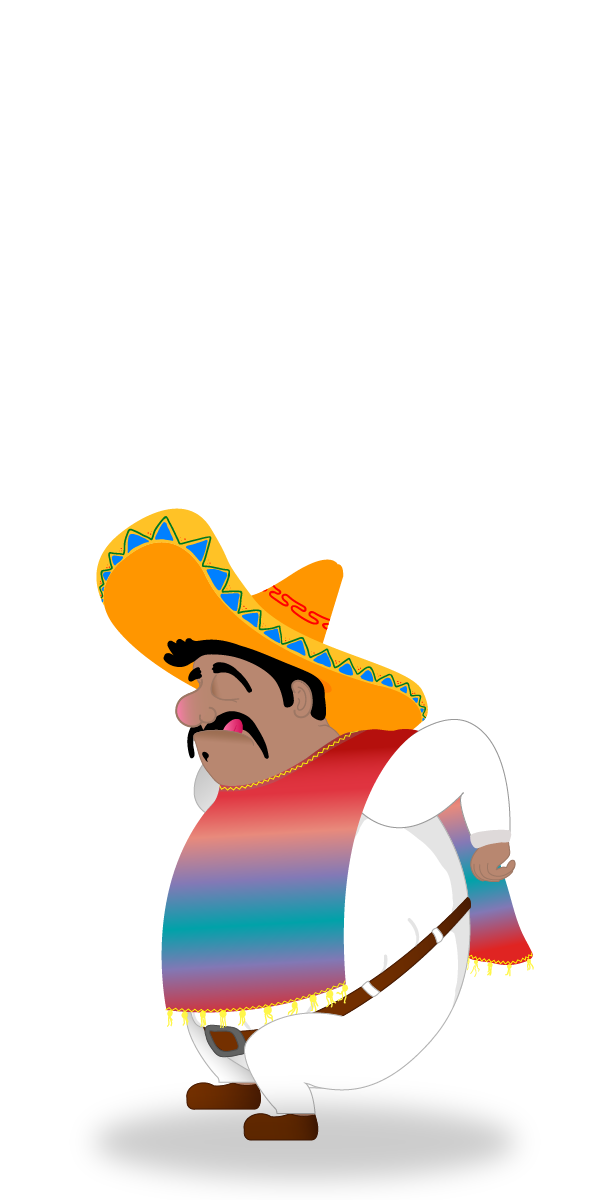
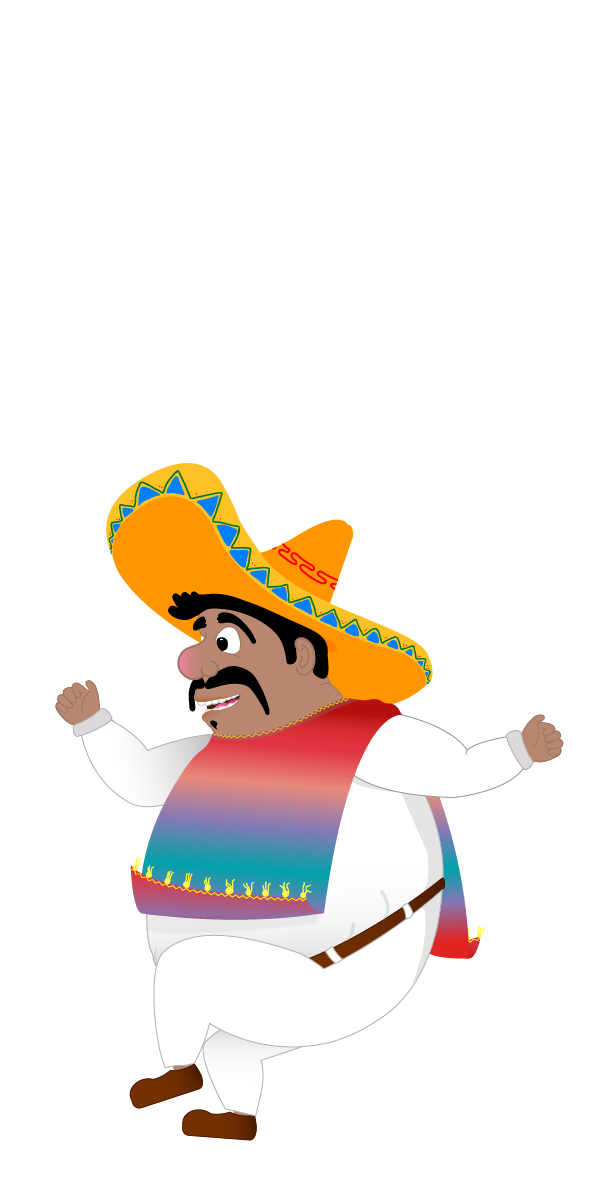
Implemented jump animation

Changed region(s): [[0.1557, 0.37, 0.9344, 0.9867], [0.0934, 0.555, 0.1869, 0.6167]]

diff --git a/game.js b/game.js
@@ -10,7 +10,7 @@ let bg_element_y = 0;
 let cloud_offset = 0;
 let isMovingRight = false;
 let isMovingLeft = false;
-let isJumping = false;
+let lastMove = "right";             //left or right
 let lastJumpStarted = 0;
 let currentCharacterImage = 'img/character/idle/Ir-1.png';
 let character_walk_index = 0;
@@ -64,29 +64,13 @@ let character_walk_left_images = [
 let character_jump_right_images = [
     'img/character/jump/Jr-31.png',
     'img/character/jump/Jr-32.png',
-    'img/character/jump/Jr-33.png',
-    'img/character/jump/Jr-34.png'
+    'img/character/jump/Jr-33.png'
 ]
 
 let character_jump_left_images = [
     'img/character/jump/Jl-31.png',
     'img/character/jump/Jl-32.png',
-    'img/character/jump/Jl-33.png',
-    'img/character/jump/Jl-34.png'
-]
-
-let character_fall_right_images = [
-    'img/character/jump/Jr-35.png',
-    'img/character/jump/Jr-36.png',
-    'img/character/jump/Jr-37.png',
-    'img/character/jump/Jr-38.png'
-]
-
-let character_fall_left_images = [
-    'img/character/jump/Jl-35.png',
-    'img/character/jump/Jl-36.png',
-    'img/character/jump/Jl-37.png',
-    'img/character/jump/Jl-38.png'
+    'img/character/jump/Jl-33.png'
 ]
 
 let character_sleep_right_images = [
@@ -130,16 +114,19 @@ let character_hurt_left_images = [
 
 // ------------------- Game config
 //Kostanten werden groß und mit Unterstrich geschrieben. Eine Konstante ist eine Variable, die sich über das ganze Spiel nicht ändert.
-let JUMP_TIME = 300;
+let JUMP_TIME = 400;
 let GAME_SPEED = 7;
 let CLOUD_SPEED = 0.2;
+
+setInterval(function () {
+    console.log("is Falling: ", isFalling);
+}, 500);
 
 //Zeichnet das Spielfeld (Startpunkt links oben)
 function init() {
     canvas = document.getElementById('canvas');
     ctx = canvas.getContext('2d');
     checkForRunning();
-    checkForJumping();
     draw();
     listenForKeys();
 }
@@ -157,7 +144,6 @@ function draw() {
 
 function checkForRunning() {
     setInterval(function () {
-        /* console.log("checkForRunning() wird ausgeführt. isMovingRight: ", isMovingRight, "character_walk_index", character_walk_index); */
         if (isMovingRight == true) {
             let character_walk_images = character_walk_right_images;
             showRunningImages(character_walk_images);
@@ -165,21 +151,6 @@ function checkForRunning() {
         else if (isMovingLeft == true) {
             let character_walk_images = character_walk_left_images;
             showRunningImages(character_walk_images);
-        }
-    }, 100);
-}
-
-function checkForJumping() {
-    setInterval(function() {
-
-        if (isJumping == true) {
-            console.log("checkForJumping() wird ausgeführt. isJumping: ", isJumping, "character_jump_index", character_jump_index);
-            let character_jump_images = character_jump_right_images;
-            showJumpingImages(character_jump_images);
-            console.log("character_jump_images: ", character_jump_images);
-        }
-        else if (isJumping == false) {
-            console.log("checkForJumping() wird ausgeführt. isJumping: ", isJumping, "character_jump_index", character_jump_index);
         }
     }, 100);
 }
@@ -192,13 +163,6 @@ function showRunningImages(character_walk_images) {
     character_walk_index++;
 }
 
-function showJumpingImages(character_jump_images) {
-    console.log("showJumpingImages() wird ausgeführt. isJumping: ", isJumping);
-    let index = character_jump_index % character_jump_images.length;
-    currentCharacterImage = character_jump_images[index];
-    character_jump_index++;
-}
-
 function updateCharacter() {
     base_image = new Image();
     base_image.src = currentCharacterImage;
@@ -209,24 +173,17 @@ function updateCharacter() {
 
     let timePassedSinceJump = new Date().getTime() - lastJumpStarted;
     if (timePassedSinceJump < JUMP_TIME) {
-        isJumping = true;
         character_y = character_y - 10;
-    } else {
+    }
+    else if (timePassedSinceJump < JUMP_TIME * 2) {
         //Check falling
-        isJumping = false;
-        /* console.log("isJumping: ", isJumping); */
         if (character_y < 45) {
             character_y = character_y + 10;
         }
     }
-}
-
-function showJumpingImages() {
-
-}
-
-function showFallingImages() {
-
+    else {
+        isFalling = false;
+    }
 }
 
 function drawBackground() {
@@ -310,10 +267,12 @@ function listenForKeys() {
         //Wenn die rechte Steuerungstaste gedrückt wird, möchten wir die Koordinaten von unserem character updaten
         if (key == "ArrowRight") {
             isMovingRight = true;
+            lastMove = "right";
             /* character_x = character_x + 5; */
         }
         if (key == "ArrowLeft") {
             isMovingLeft = true;
+            lastMove = "left";
             /* character_x = character_x - 5; */
         }
 
@@ -323,7 +282,8 @@ function listenForKeys() {
         //JUMP_TIME * 2, da wir JUMP_TIME hochspringen und JUMP_TIME runterfallen (ein Sprung).
         if ((key == "Space" || key == "ArrowUp") && timePassedSinceJump > JUMP_TIME * 2) {
             lastJumpStarted = new Date().getTime();         //Unix Timestamp
-            /* console.log("isJumping: ", isJumping); */
+            checkJumpDirection();
+
         }
     });
 
@@ -340,4 +300,27 @@ function listenForKeys() {
         }
     });
 
+}
+
+function checkJumpDirection() {
+    if (lastMove == "right") {
+        let character_jump_images = character_jump_right_images;
+        animateJump(character_jump_images);
+    }
+    else {
+        let character_jump_images = character_jump_left_images;
+        animateJump(character_jump_images);
+    }
+}
+
+function animateJump(character_jump_images) {
+    setTimeout(function () {
+        currentCharacterImage = character_jump_images[0];
+    }, JUMP_TIME * 2 / (character_jump_images.length * 10) * 1);
+    setTimeout(function () {
+        currentCharacterImage = character_jump_images[1];
+    }, JUMP_TIME * 2 / (character_jump_images.length * 10) * 5);
+    setTimeout(function () {
+        currentCharacterImage = character_jump_images[2];
+    }, JUMP_TIME * 2 / (character_jump_images.length * 10) * 25);
 }
